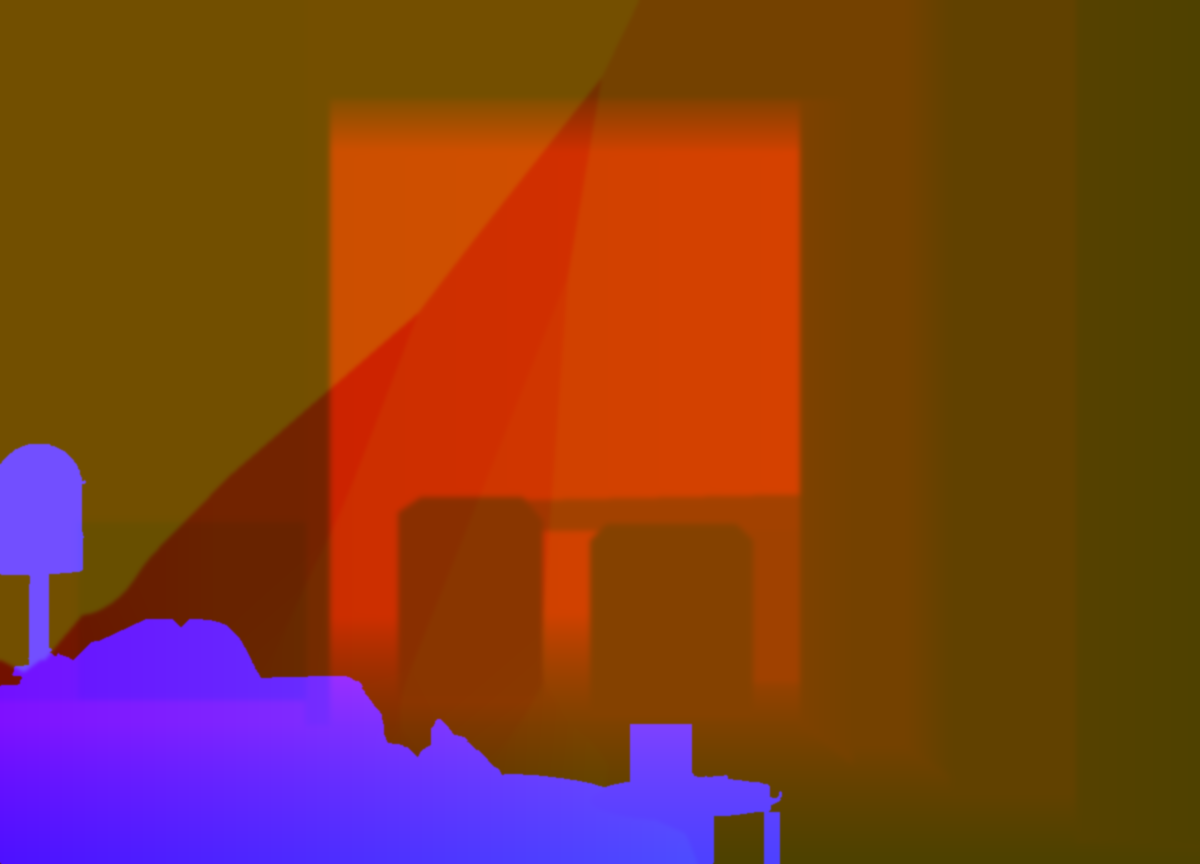
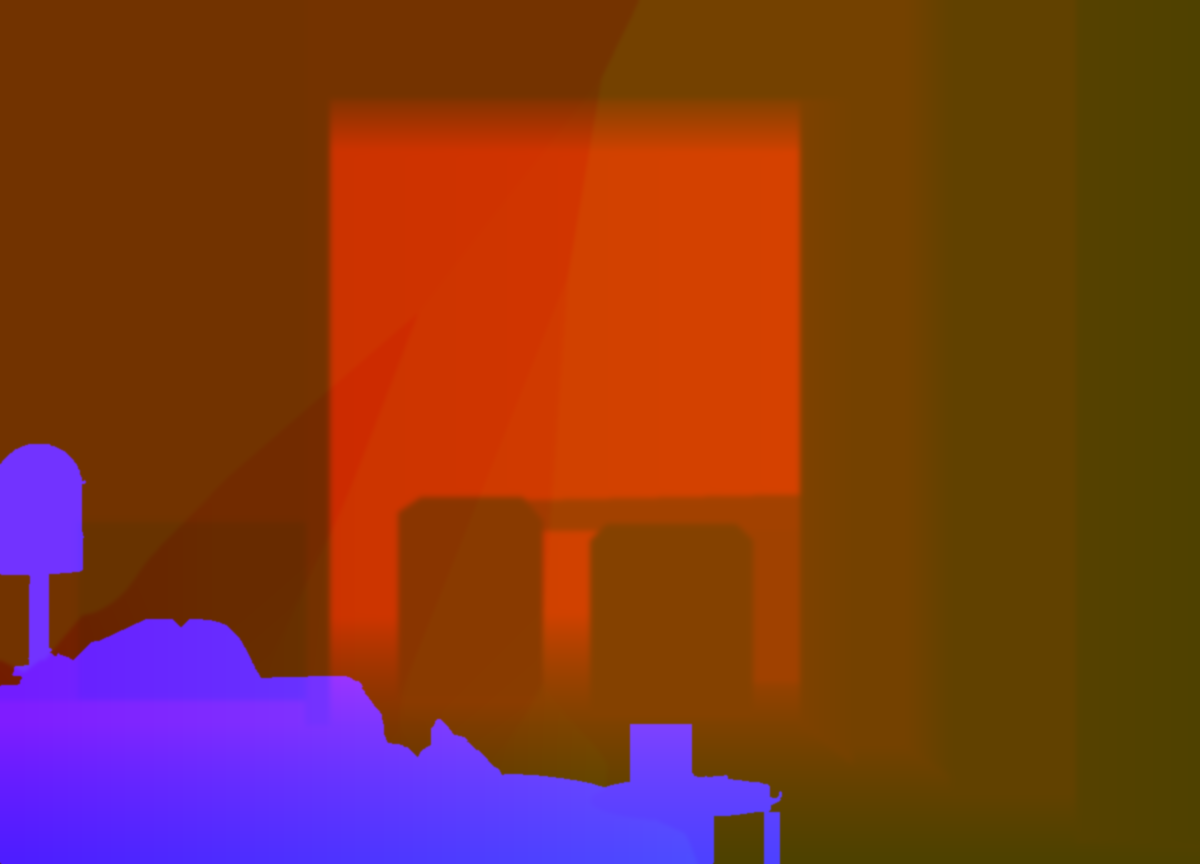
Preloader 3D: stronger cursor parallax (outside 170 / pivot 520 behind the facade, room 26), sky overscan 4 %, room overscan 10 %; softer near-furniture depths (sofa 1.6-2.65 m, lamp 2.1 m) so the sofa never uncovers the photo edge
Claude-Session: https://claude.ai/code/session_0117HZEeKusXN3UNmPD9FEqi

Changed region(s): [[0.0, 0.0, 0.5242, 0.7812]]

diff --git a/design/js/pre3d.js b/design/js/pre3d.js
@@ -60,7 +60,8 @@ function placeRect(m){
   const { r, z, axis } = m.userData, k = axis ? (Zc - z) / Zc : 1;
   const cx = r.x + r.w / 2, cy = -(r.y + r.h / 2);
   m.position.set(C.x + (cx - C.x) * k, C.y + (cy - C.y) * k, z);
-  m.scale.set(k, k, 1);
+  const o = m.userData.over || 1;                                  /* optional overscan (sky: room for the mouse parallax) */
+  m.scale.set(k * o, k * o, 1);
 }
 
 /* ---------------------------------------------------------------- shaders */
@@ -280,7 +281,7 @@ async function build(){
   layoutCamera();
   const clipEdge = [ new THREE.Plane(new THREE.Vector3(-1, 0, 0), F.EDGE - .5) ];       /* keep things left of the corner */
 
-  M.sky = rectPlane(skyMat(tSky), { x:F.RX, y:F.RY, w:F.RW, h:F.RH }, SKYZ, true); M.sky.renderOrder = 0; scene.add(M.sky);
+  M.sky = rectPlane(skyMat(tSky), { x:F.RX, y:F.RY, w:F.RW, h:F.RH }, SKYZ, true); M.sky.userData.over = 1.04; placeRect(M.sky); M.sky.renderOrder = 0; scene.add(M.sky);
   const facW = tFac.image.width / tSky.image.width * F.RW;
   M.fac = rectPlane((() => { const m = facadeMat(tFac, tWin); m.uniforms.winMask.value = tWinM; return m; })(), { x:F.RX - F.EXT, y:F.RY, w:facW, h:F.RH }, 0, false); M.fac.renderOrder = 5; scene.add(M.fac);
   /* the building's side wall round the corner: the facade texture repeated, in shadow, receding into the city */
@@ -357,11 +358,11 @@ function resize(){
   scene.traverse(o => { if (o.userData && o.userData.r) placeRect(o); });
   /* room plane: covers the view from the final pose (camera at z = ZEND) */
   const dist = ZEND - ROOMZ, visH = 2 * dist * TAN, visW = visH * camera.aspect;
-  const h = Math.max(visH, visW / ROOM_AR) * 1.08, w = h * ROOM_AR;           /* a little overscan for the mouse parallax */
+  const h = Math.max(visH, visW / ROOM_AR) * 1.10, w = h * ROOM_AR;           /* a little overscan for the mouse parallax */
   M.room.scale.set(w, h, 1); M.roomN.scale.set(w, h, 1);
 }
 const ZEND = -40;
-const MP_OUT = 110, MP_IN = 18;   /* mouse parallax: camera slide at the screen edge (×0.5), outside / in the room */
+const MP_OUT = 170, MP_IN = 26;   /* mouse parallax: camera slide at the screen edge (×0.5), outside / in the room */
 
 /* ---------------------------------------------------------------- camera path + state */
 const v3 = new THREE.Vector3(), look = new THREE.Vector3();
@@ -393,7 +394,7 @@ function pose(t, T, mx, my, scroll){
      outside the pivot is 400 behind the facade (the tower drifts one way, the city the other), inside it is the
      doorway wall (the sofa slides one way, the dining room and the wine wall the other) */
   const dk = sm(Math.min(1, dive * 2.2)), mp = lerp(MP_OUT, MP_IN, dk);
-  v3.set(lx - x, ly - y, lz - z); const L = v3.length(); v3.multiplyScalar((L + 400 * (1 - dk)) / L);
+  v3.set(lx - x, ly - y, lz - z); const L = v3.length(); v3.multiplyScalar((L + 520 * (1 - dk)) / L);
   look.set(x + v3.x, y + v3.y, z + v3.z);
   camera.position.set(x - mx * mp, y + my * mp * .7, z); camera.lookAt(look);
   return dive;

diff --git a/design/src/v15/pre3d.js b/design/src/v15/pre3d.js
@@ -60,7 +60,8 @@ function placeRect(m){
   const { r, z, axis } = m.userData, k = axis ? (Zc - z) / Zc : 1;
   const cx = r.x + r.w / 2, cy = -(r.y + r.h / 2);
   m.position.set(C.x + (cx - C.x) * k, C.y + (cy - C.y) * k, z);
-  m.scale.set(k, k, 1);
+  const o = m.userData.over || 1;                                  /* optional overscan (sky: room for the mouse parallax) */
+  m.scale.set(k * o, k * o, 1);
 }
 
 /* ---------------------------------------------------------------- shaders */
@@ -280,7 +281,7 @@ async function build(){
   layoutCamera();
   const clipEdge = [ new THREE.Plane(new THREE.Vector3(-1, 0, 0), F.EDGE - .5) ];       /* keep things left of the corner */
 
-  M.sky = rectPlane(skyMat(tSky), { x:F.RX, y:F.RY, w:F.RW, h:F.RH }, SKYZ, true); M.sky.renderOrder = 0; scene.add(M.sky);
+  M.sky = rectPlane(skyMat(tSky), { x:F.RX, y:F.RY, w:F.RW, h:F.RH }, SKYZ, true); M.sky.userData.over = 1.04; placeRect(M.sky); M.sky.renderOrder = 0; scene.add(M.sky);
   const facW = tFac.image.width / tSky.image.width * F.RW;
   M.fac = rectPlane((() => { const m = facadeMat(tFac, tWin); m.uniforms.winMask.value = tWinM; return m; })(), { x:F.RX - F.EXT, y:F.RY, w:facW, h:F.RH }, 0, false); M.fac.renderOrder = 5; scene.add(M.fac);
   /* the building's side wall round the corner: the facade texture repeated, in shadow, receding into the city */
@@ -357,11 +358,11 @@ function resize(){
   scene.traverse(o => { if (o.userData && o.userData.r) placeRect(o); });
   /* room plane: covers the view from the final pose (camera at z = ZEND) */
   const dist = ZEND - ROOMZ, visH = 2 * dist * TAN, visW = visH * camera.aspect;
-  const h = Math.max(visH, visW / ROOM_AR) * 1.08, w = h * ROOM_AR;           /* a little overscan for the mouse parallax */
+  const h = Math.max(visH, visW / ROOM_AR) * 1.10, w = h * ROOM_AR;           /* a little overscan for the mouse parallax */
   M.room.scale.set(w, h, 1); M.roomN.scale.set(w, h, 1);
 }
 const ZEND = -40;
-const MP_OUT = 110, MP_IN = 18;   /* mouse parallax: camera slide at the screen edge (×0.5), outside / in the room */
+const MP_OUT = 170, MP_IN = 26;   /* mouse parallax: camera slide at the screen edge (×0.5), outside / in the room */
 
 /* ---------------------------------------------------------------- camera path + state */
 const v3 = new THREE.Vector3(), look = new THREE.Vector3();
@@ -393,7 +394,7 @@ function pose(t, T, mx, my, scroll){
      outside the pivot is 400 behind the facade (the tower drifts one way, the city the other), inside it is the
      doorway wall (the sofa slides one way, the dining room and the wine wall the other) */
   const dk = sm(Math.min(1, dive * 2.2)), mp = lerp(MP_OUT, MP_IN, dk);
-  v3.set(lx - x, ly - y, lz - z); const L = v3.length(); v3.multiplyScalar((L + 400 * (1 - dk)) / L);
+  v3.set(lx - x, ly - y, lz - z); const L = v3.length(); v3.multiplyScalar((L + 520 * (1 - dk)) / L);
   look.set(x + v3.x, y + v3.y, z + v3.z);
   camera.position.set(x - mx * mp, y + my * mp * .7, z); camera.lookAt(look);
   return dive;

diff --git a/design/src/v15/room_depth.py b/design/src/v15/room_depth.py
@@ -58,8 +58,8 @@ sofa = poly_mask([(0, 690), (40, 660), (100, 650), (160, 622), (215, 622), (262,
                   (420, 758), (428, 716), (440, 710), (470, 745), (482, 770), (500, 775), (590, 781), (655, 820), (697, 864), (0, 864)])
 table = ell_mask(688, 800, 98, 21) | rect(698, 812, 713, 864) | rect(764, 812, 780, 864) | rect(630, 724, 692, 800) | ell_mask(705, 779, 24, 11)
 Dn = np.full((H, W), np.nan, np.float32)
-Dn[lamp] = 2.7
-Dn[sofa] = 1.35 + 1.3 * np.clip(xx[sofa] / 700, 0, 1)                  # the sofa runs away from us, into the room
+Dn[lamp] = 2.1
+Dn[sofa] = 1.6 + 1.05 * np.clip(xx[sofa] / 700, 0, 1)                  # the sofa runs away from us, into the room
 Dn[table] = 2.4                                                          # coffee table, glass, bowl (in front of the sofa's far end)
 poly = lamp | sofa | table
 photo = np.array(Image.open('/tmp/room_view.jpg').convert('RGB'))
